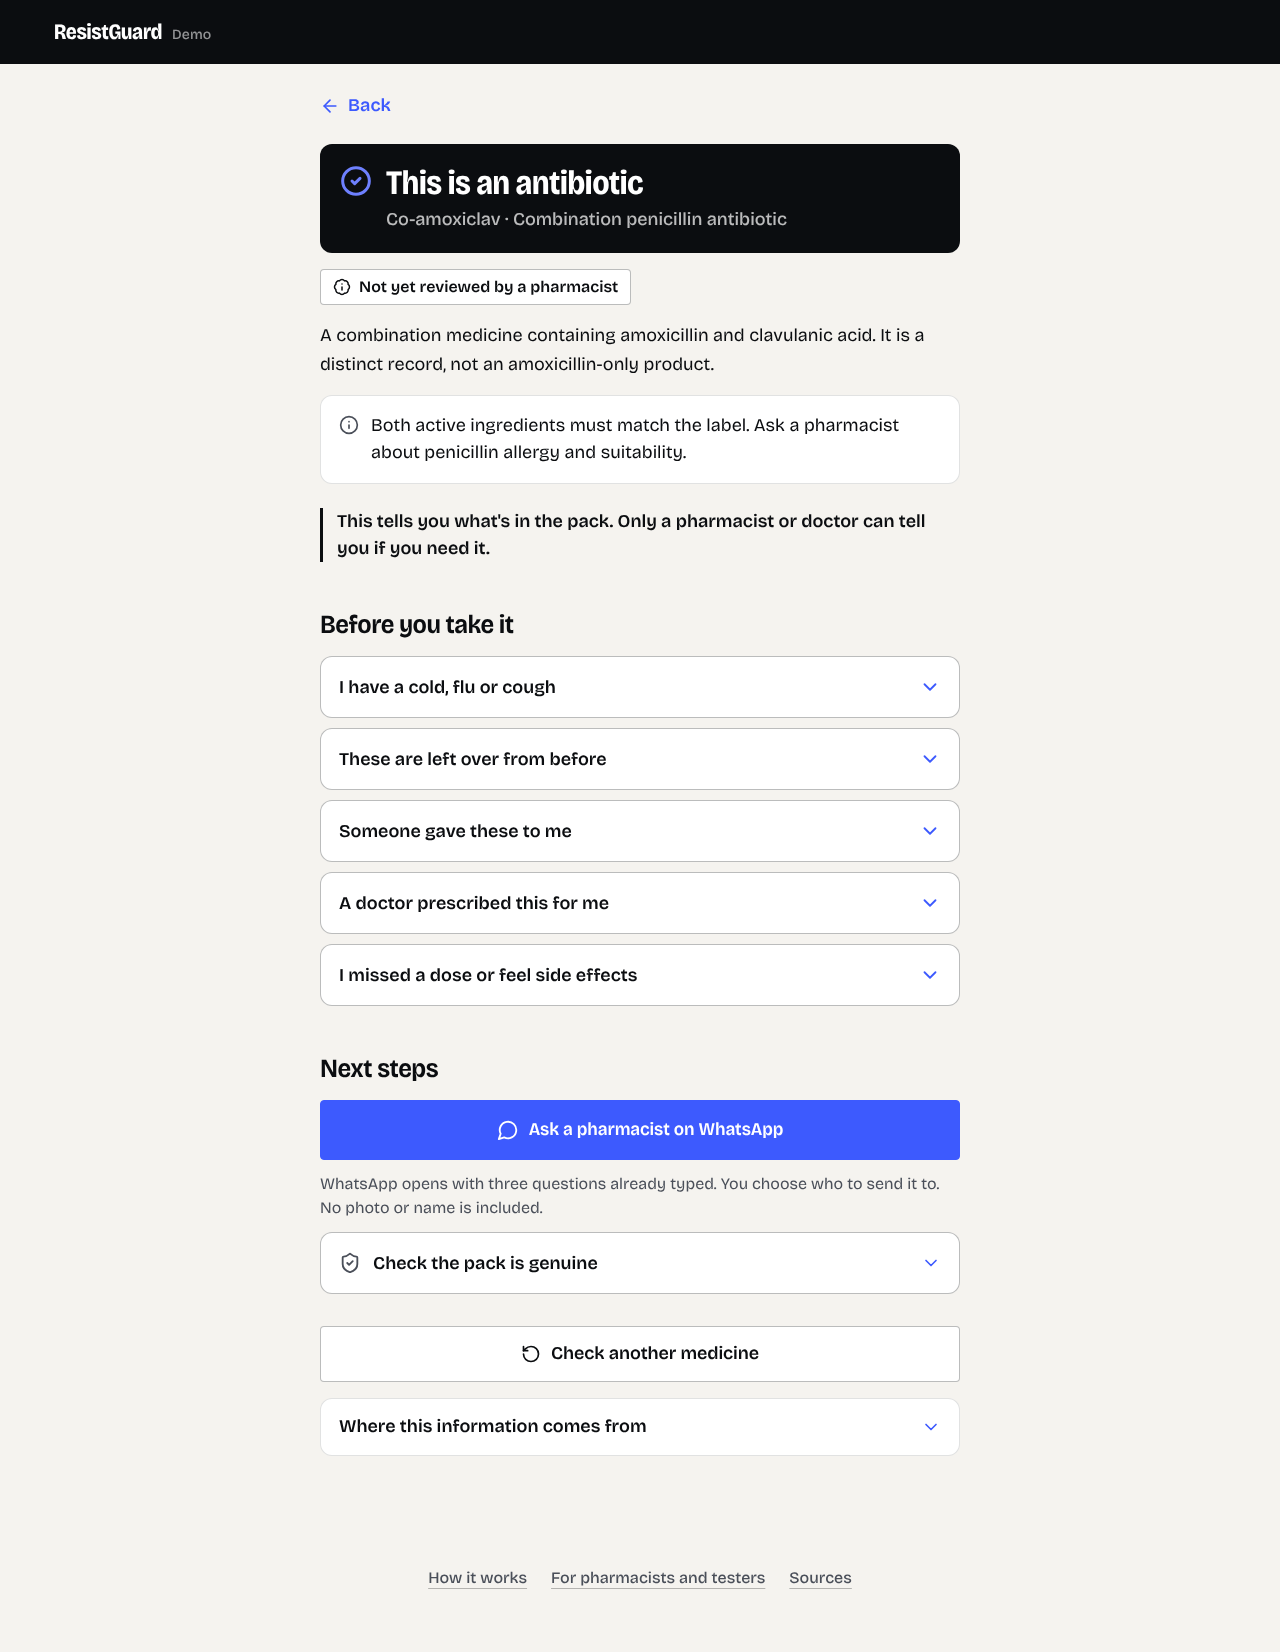
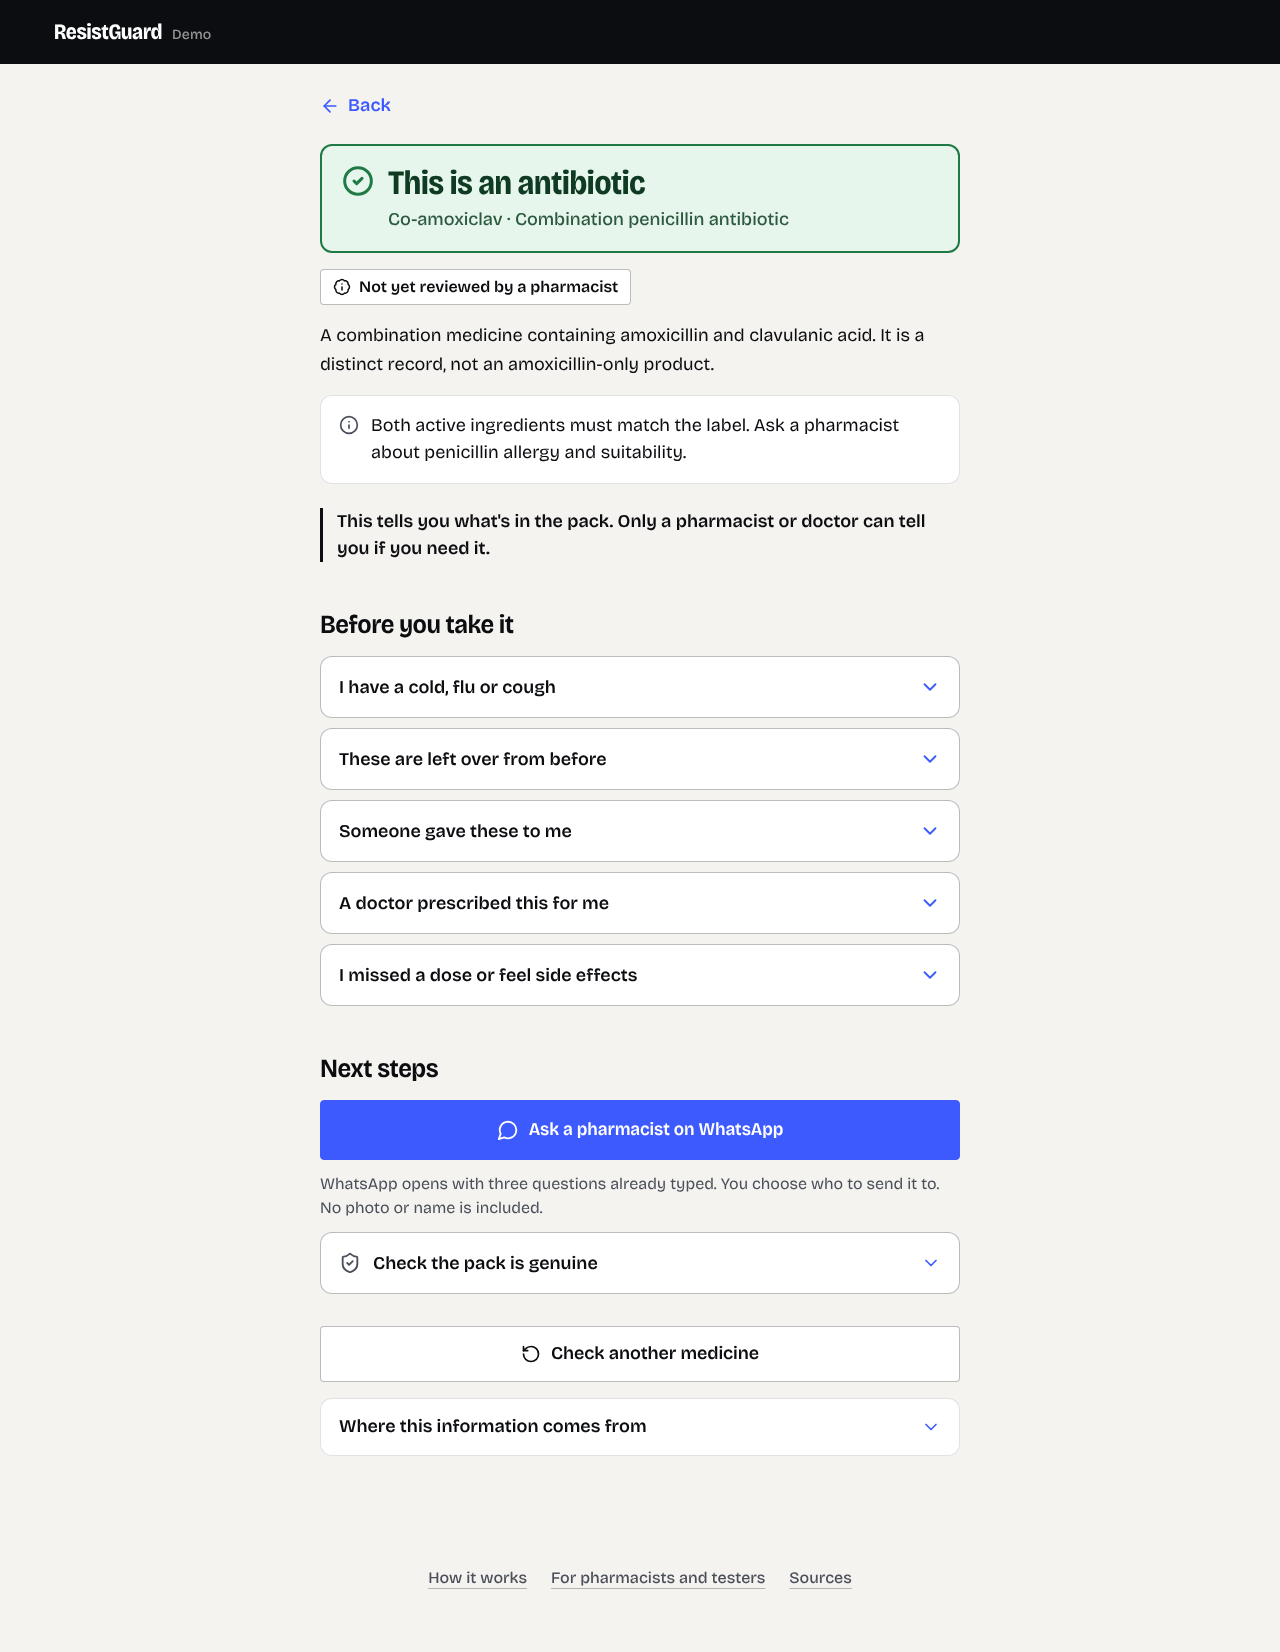
Make the answer card green success feedback
At the product owner's request the verdict is now a green success card with a
check, the same for both outcomes ("your check is done"). New success tokens
are used on the answer card only; contrast is 11.3:1 for the verdict and
7.1:1 for its sub-line. Docs updated; screenshots retaken.

Claude-Session: https://claude.ai/code/session_01QXnJzsg3GfQ5Gs2Jt9t3nx

Changed region(s): [[0.25, 0.0617, 0.75, 0.1544]]

diff --git a/app/components/answer.css b/app/components/answer.css
@@ -1,10 +1,10 @@
-/* The answer is the success moment: the dark room gives its answer. One card for both outcomes, with a check
-   that says the check is done; the words say which outcome. No warning colours or alert icons on the verdict. */
+/* The answer is the success moment: a green card with a check, the same for both outcomes ("your check is done").
+   The words say which outcome. No alert icons or side stripes. */
 .answer{display:block}
-.answer-verdict{display:flex;gap:14px;align-items:flex-start;margin-top:var(--s3);padding:20px;border-radius:var(--radius-card);background:var(--night);color:var(--on-night)}
-.answer .answer-verdict h1{margin:0;font-size:clamp(28px,3vw,34px);font-weight:700;font-stretch:86%;line-height:1.1;letter-spacing:-.02em;text-wrap:wrap;color:var(--on-night)}
-.answer-verdict-icon{display:flex;flex-shrink:0;margin-top:1px;color:var(--signal-300)}
-.answer-name{margin:6px 0 0;font-size:var(--text-body);font-weight:500;line-height:1.4;color:var(--on-night-2)}
+.answer-verdict{display:flex;gap:14px;align-items:flex-start;margin-top:var(--s3);padding:18px 20px;border:2px solid var(--success-line);border-radius:var(--radius-card);background:var(--success-50)}
+.answer .answer-verdict h1{margin:0;font-size:clamp(28px,3vw,34px);font-weight:700;font-stretch:86%;line-height:1.1;letter-spacing:-.02em;text-wrap:wrap;color:var(--success-ink)}
+.answer-verdict-icon{display:flex;flex-shrink:0;margin-top:1px;color:var(--success-line)}
+.answer-name{margin:6px 0 0;font-size:var(--text-body);font-weight:500;line-height:1.4;color:var(--success-ink-2)}
 .answer-review{display:inline-flex;align-items:center;gap:var(--s2);margin:var(--s4) 0 0;padding:6px 12px;border:1px solid var(--line-strong);border-radius:var(--radius-control);background:var(--card);font-size:var(--text-small);font-weight:600;line-height:1.4;color:var(--ink)}
 .answer-review svg{flex-shrink:0}
 .answer-summary{margin:var(--s4) 0 0;font-size:var(--text-body);line-height:1.6}

diff --git a/app/tokens.css b/app/tokens.css
@@ -23,7 +23,10 @@
  --signal-ink:#2A3BB8;     /* text on signal-50 */
  --on-signal:#FFFFFF;      /* label on a signal fill, 5.1:1 */
 
- /* Meaning colours, unchanged from the reviewed answer screen */
+ /* Success: the answer card only. It means "your check is done", the same for both outcomes. */
+ --success-50:#E7F6EC;--success-line:#1F7A45;--success-ink:#0E3B22;--success-ink-2:#2D5A3F;
+
+ /* Meaning colours for list-chip labels */
  --amber-50:#FFF0D4;--amber-line:#B25E00;--amber-ink:#4D2600;   /* the "Antibiotic" label on list chips */
  --slate-50:#E8EEF5;--slate-line:#4F6B8A;--slate-ink:#1D3350;   /* the "Not an antibiotic" label on list chips */
 

diff --git a/DESIGN.md b/DESIGN.md
@@ -2,7 +2,7 @@
 
 One product, one design language. The landing page (`/`) is night. The medicine checker (`/check`) is paper under a night top bar. Both are surfaces of the same product. The direction and its reasoning live in `ART_DIRECTION.md`; this file is the working reference. Every value below is defined once in `app/tokens.css`, and nothing else may define a colour, font or motion value.
 
-## Colour: one brand colour, two meaning colours
+## Colour: one brand colour, one success colour, two label colours
 
 | Token | Value | Use |
 |---|---|---|
@@ -17,11 +17,12 @@ One product, one design language. The landing page (`/`) is night. The medicine 
 | `--signal-press` | `#2F49E0` | Hover and press of signal fills |
 | `--signal-300` | `#6E80FF` | Small signal text and the focus ring on night |
 | `--signal-50` / `--signal-ink` | `#E9ECFF` / `#2A3BB8` | Information notes on paper (paused photo reading, "AI read this", timeouts) |
+| `--success-50` / `-line` / `-ink` / `-ink-2` | `#E7F6EC` `#1F7A45` `#0E3B22` `#2D5A3F` | The answer card only: "your check is done" (heading 11.3:1, sub-line 7.1:1) |
 | `--amber-*` | `#FFF0D4` `#B25E00` `#4D2600` | The "Antibiotic" label on list chips (find by name, catalogue) |
 | `--slate-*` | `#E8EEF5` `#4F6B8A` `#1D3350` | The "Not an antibiotic" label on list chips |
 
 Rules:
-- No green anywhere: "not an antibiotic" must never read as "safe to take".
+- Green (`--success-*`) appears only on the answer card and means "your check is done", the same for both outcomes. It never colours a medicine, a chip or a button, and the same screen always shows "Not yet reviewed by a pharmacist" and the pharmacist boundary line, so green is not read as "safe to take".
 - No gradients or shadows, except the one hero glow.
 - Signal never marks decoration; if something is blue, it can be tapped or it is the one emphasised word.
 
@@ -53,7 +54,7 @@ Rules:
 - Space scale: 4, 8, 12, 16, 24, 32, 48, 64, 96, 128px. Page gutter is `clamp(20px, 4.2vw, 80px)`.
 - Controls are at least 52px tall; the default is 56px, and primary actions on Home are 64px.
 - Focus is a 2px ring offset 3px: signal on paper, signal-300 on night (`.on-night`).
-- The verdict is the success moment: a night card with a signal-300 check and the answer in large white type, the same for both outcomes. The words carry the meaning. No warning colours, alert icons or side stripes.
+- The verdict is the success moment: a green card (`--success-50` ground, 2px `--success-line` border) with a check and the answer in large dark-green type, the same for both outcomes. The words carry the meaning. No alert icons or side stripes.
 
 ## Components
 

diff --git a/ART_DIRECTION.md b/ART_DIRECTION.md
@@ -14,7 +14,7 @@ Doubt, then clarity, then reassurance. The hero names the doubt in big, plain ty
 | Signal `#3D5AFE` | Fill of the one primary button (white label, 5.1:1). Large emphasis word only (3.8:1, so 24px and up). Small signal text uses `#6E80FF` | Primary button, links (4.6:1). Notes on `signal-50 #E9ECFF` with `#2A3BB8` text |
 | Lines | `rgba(255,255,255,.12)` | `rgba(11,13,16,.12)` |
 
-Each colour has one meaning. Signal means "do this next". Amber (`#fff0d4` / `#b25e00` / `#4d2600`) labels "Antibiotic" on list chips, and slate (`#e8eef5` / `#4f6b8a` / `#1d3350`) labels "Not an antibiotic". The answer itself is positive feedback: a night card with a blue check, because reaching an answer is the moment the product succeeds. The palette has no red, green, lavender or old cobalt. There are no shadows or gradients, except the single hero glow.
+Each colour has one meaning. Signal means "do this next". Amber (`#fff0d4` / `#b25e00` / `#4d2600`) labels "Antibiotic" on list chips, and slate (`#e8eef5` / `#4f6b8a` / `#1d3350`) labels "Not an antibiotic". The answer itself is positive feedback: a green card with a check, because reaching an answer is the moment the product succeeds. Green appears nowhere else. The palette has no red, lavender or old cobalt. There are no shadows or gradients, except the single hero glow.
 
 Radius is 4px on every control (buttons, inputs, chips) and 12px on paper cards. Focus is a 2px ring offset by 4px: `#6E80FF` on night, `#3D5AFE` on paper. It is the same shape everywhere.
 

diff --git a/CLAUDE.md b/CLAUDE.md
@@ -20,7 +20,7 @@ Read PROJECT_MAP.md before you change the scan flow, the catalogue or any medica
 ## Design system (read before any UI change)
 - Read `DESIGN.md` (Night & Paper) and `ART_DIRECTION.md`. Every colour, font, space and motion value lives in `app/tokens.css`; never hard-code one in a component.
 - Landing page at `/` is night (`app/page.tsx`, `app/landing.css`, copy in `lib/landing-copy.ts`). The checker is at `/check` (`app/check/page.tsx` -> `app/components/CheckApp.tsx`), paper under a night top bar.
-- One brand colour, signal `#3D5AFE`, means "do this next". Amber = antibiotic caution, slate = not an antibiotic. No red and no green anywhere.
+- One brand colour, signal `#3D5AFE`, means "do this next". Green (`--success-*`) is only for the answer card, meaning "your check is done". Amber and slate label list chips. No red anywhere.
 - Bricolage Grotesque for everything; Fraunces italic only for one `<em>` per heading via `Emphasis.tsx`.
 - Radius 4px for controls, 12px for cards. Controls at least 52px tall. Body text 18px; nothing below 14px.
 - New CSS: one file per component, every class prefixed with the component name, values only from tokens.
